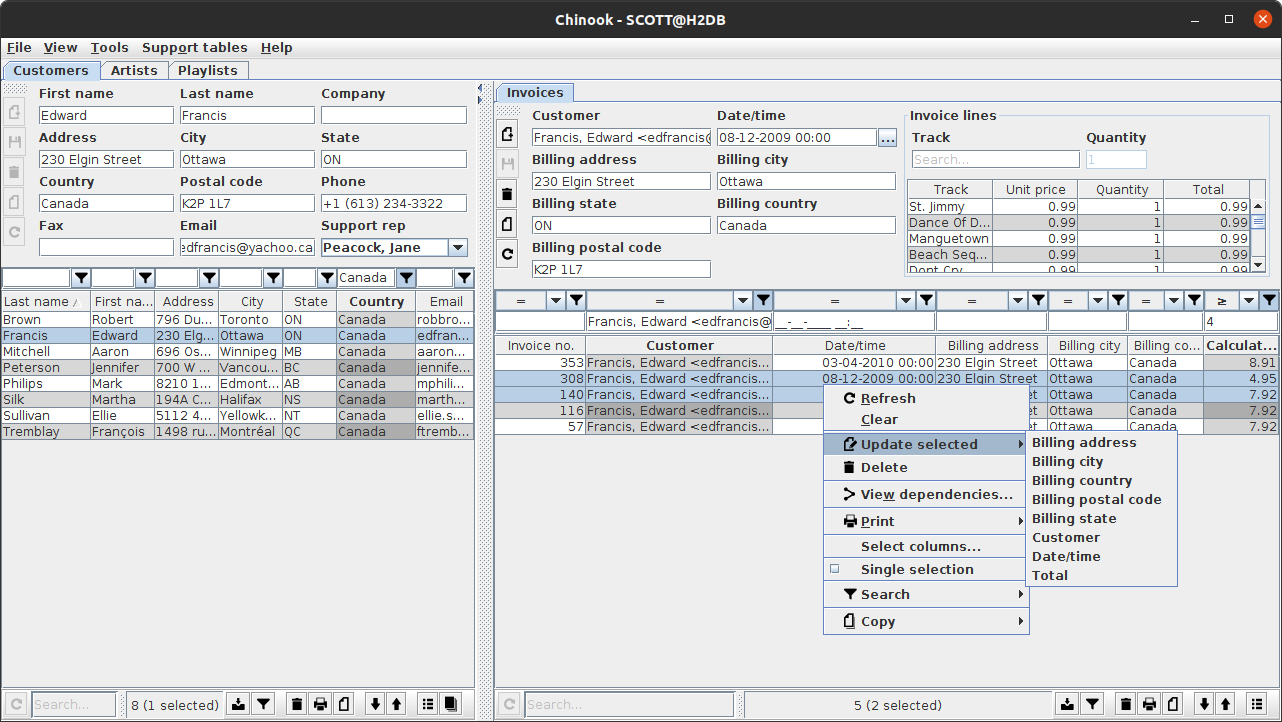
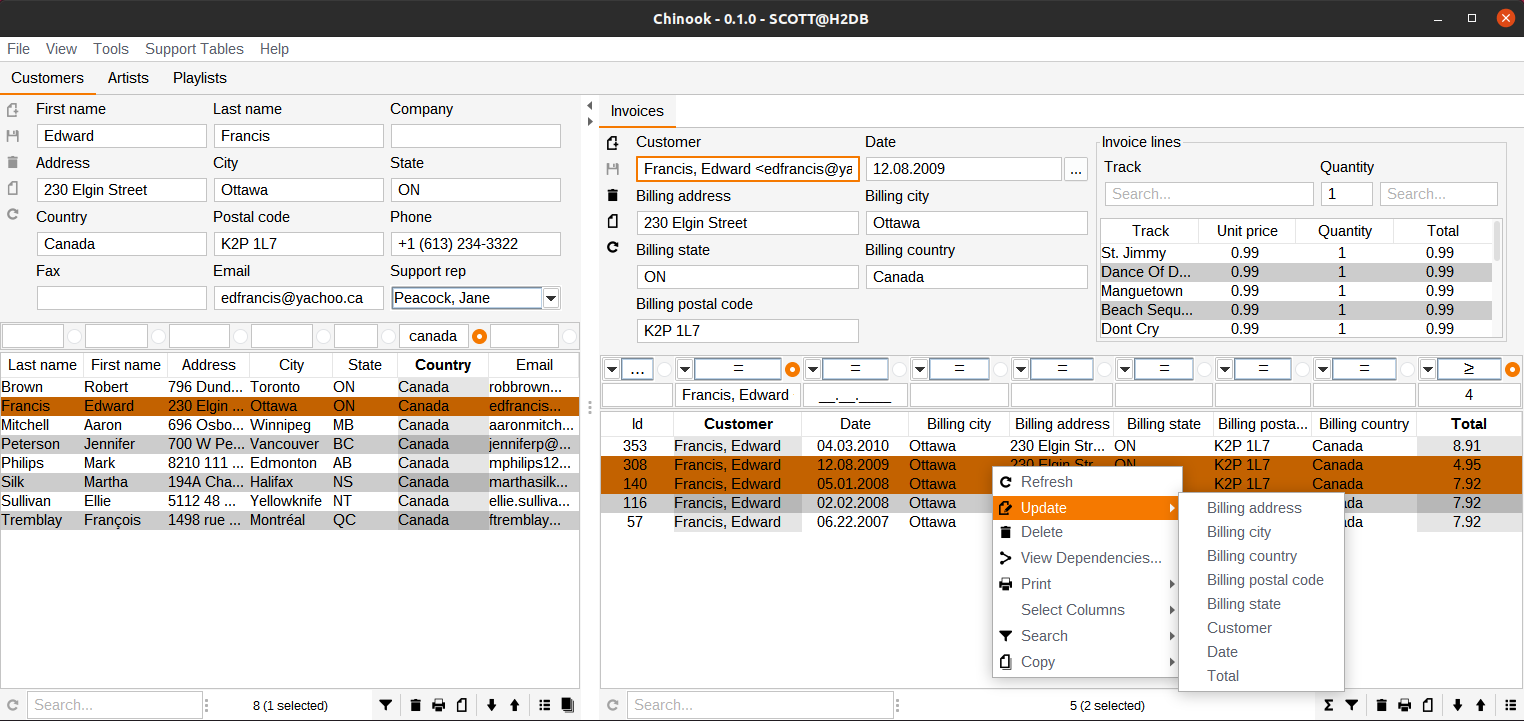
Readme updated with new screenshots

diff --git a/demos/chinook/src/main/java/is/codion/framework/demos/chinook/ui/ChinookAppPanel.java b/demos/chinook/src/main/java/is/codion/framework/demos/chinook/ui/ChinookAppPanel.java
@@ -24,8 +24,7 @@ import is.codion.swing.framework.ui.EntityTableCellRenderer;
 import is.codion.swing.framework.ui.EntityTablePanel;
 import is.codion.swing.framework.ui.ReferentialIntegrityErrorHandling;
 
-import com.formdev.flatlaf.FlatDarkLaf;
-import com.formdev.flatlaf.FlatLightLaf;
+import com.formdev.flatlaf.intellijthemes.FlatAllIJThemes;
 
 import javax.swing.ButtonGroup;
 import javax.swing.JOptionPane;
@@ -152,8 +151,8 @@ public final class ChinookAppPanel extends EntityApplicationPanel<ChinookApplica
     final String language = UserPreferences.getUserPreference(LANGUAGE_PREFERENCES_KEY, Locale.getDefault().getLanguage());
     Locale.setDefault(LANGUAGE_IS.equals(language) ? LOCALE_IS : LOCALE_EN);
     LookAndFeelProvider.CHANGE_DURING_SELECTION.set(true);
-    addLookAndFeelProvider(LookAndFeelProvider.create(FlatLightLaf.class.getName(), FlatLightLaf::setup));
-    addLookAndFeelProvider(LookAndFeelProvider.create(FlatDarkLaf.class.getName(), FlatDarkLaf::setup));
+    Arrays.stream(FlatAllIJThemes.INFOS).forEach(themeInfo ->
+            addLookAndFeelProvider(LookAndFeelProvider.create(themeInfo.getClassName())));
     Completion.COMBO_BOX_COMPLETION_MODE.set(Completion.Mode.AUTOCOMPLETE);
     EntityEditModel.POST_EDIT_EVENTS.set(true);
     EntityApplicationPanel.DISPLAY_ENTITY_PANELS_IN_FRAME.set(true);
@@ -169,7 +168,7 @@ public final class ChinookAppPanel extends EntityApplicationPanel<ChinookApplica
     ColumnConditionModel.CASE_SENSITIVE.set(false);
     EntityConnectionProvider.CLIENT_DOMAIN_CLASS.set("is.codion.framework.demos.chinook.domain.impl.ChinookImpl");
     SwingUtilities.invokeLater(() -> new ChinookAppPanel().starter()
-            .frameSize(new Dimension(1920, 1080))
+            .frameSize(new Dimension(1280, 720))
             .defaultLoginUser(User.parseUser("scott:tiger"))
             .start());
 

diff --git a/demos/manual/src/main/java/is/codion/framework/demos/manual/store/minimal/ui/StoreDemo.java b/demos/manual/src/main/java/is/codion/framework/demos/manual/store/minimal/ui/StoreDemo.java
@@ -15,6 +15,10 @@ import is.codion.swing.framework.model.SwingEntityModel;
 import is.codion.swing.framework.ui.EntityEditPanel;
 import is.codion.swing.framework.ui.EntityPanel;
 
+import com.formdev.flatlaf.FlatDarculaLaf;
+
+import javax.swing.UIManager;
+
 import static is.codion.framework.demos.manual.store.minimal.domain.Store.Address;
 import static is.codion.framework.demos.manual.store.minimal.domain.Store.Customer;
 import static is.codion.swing.common.ui.layout.Layouts.gridLayout;
@@ -35,7 +39,7 @@ public class StoreDemo {
       createTextField(Customer.LAST_NAME);
       createTextField(Customer.EMAIL);
       createCheckBox(Customer.IS_ACTIVE);
-      setLayout(gridLayout(2, 2));
+      setLayout(gridLayout(4, 1));
       addInputPanel(Customer.FIRST_NAME);
       addInputPanel(Customer.LAST_NAME);
       addInputPanel(Customer.EMAIL);
@@ -62,7 +66,9 @@ public class StoreDemo {
     }
   }
 
-  public static void main(String[] args) {
+  public static void main(String[] args) throws Exception {
+    UIManager.setLookAndFeel(new FlatDarculaLaf());
+
     Database database = new H2DatabaseFactory()
             .createDatabase("jdbc:h2:mem:h2db",
                     "src/main/sql/create_schema_minimal.sql");
@@ -86,9 +92,9 @@ public class StoreDemo {
                     new AddressEditPanel(addressModel.getEditModel()));
     customerPanel.addDetailPanel(addressPanel);
 
-    customerPanel.getTablePanel().setConditionPanelVisible(true);
     customerPanel.getTablePanel().getTable().setAutoResizeMode(AUTO_RESIZE_ALL_COLUMNS);
     addressPanel.getTablePanel().getTable().setAutoResizeMode(AUTO_RESIZE_ALL_COLUMNS);
+    addressPanel.getTablePanel().setConditionPanelVisible(true);
 
     customerModel.refresh();
     customerPanel.initializePanel();

diff --git a/demos/manual/src/main/java/is/codion/framework/demos/manual/store/minimal/domain/Store.java b/demos/manual/src/main/java/is/codion/framework/demos/manual/store/minimal/domain/Store.java
@@ -36,8 +36,7 @@ public class Store extends DefaultDomain {
     Attribute<String> STREET = TYPE.stringAttribute("street");
     Attribute<String> CITY = TYPE.stringAttribute("city");
 
-    ForeignKey CUSTOMER_FK = TYPE.foreignKey("customer_fk",
-            Address.CUSTOMER_ID, Customer.ID);
+    ForeignKey CUSTOMER_FK = TYPE.foreignKey("customer_fk", CUSTOMER_ID, Customer.ID);
   }
 
   public Store() {
@@ -52,6 +51,7 @@ public class Store extends DefaultDomain {
             columnProperty(Customer.EMAIL, "Email")
                     .maximumLength(100),
             columnProperty(Customer.IS_ACTIVE, "Is active")
+                    .nullable(false)
                     .defaultValue(true))
             .keyGenerator(identity())
             .stringFactory(stringFactory(Customer.LAST_NAME)
@@ -64,9 +64,11 @@ public class Store extends DefaultDomain {
                     .nullable(false),
             foreignKeyProperty(Address.CUSTOMER_FK, "Customer"),
             columnProperty(Address.STREET, "Street")
-                    .nullable(false).maximumLength(100),
+                    .nullable(false)
+                    .maximumLength(100),
             columnProperty(Address.CITY, "City")
-                    .nullable(false).maximumLength(50))
+                    .nullable(false)
+                    .maximumLength(50))
             .keyGenerator(identity())
             .stringFactory(stringFactory(Address.STREET)
                     .text(", ").value(Address.CITY))

diff --git a/demos/chinook/src/main/java/is/codion/framework/demos/chinook/tutorial/ClientTutorial.java b/demos/chinook/src/main/java/is/codion/framework/demos/chinook/tutorial/ClientTutorial.java
@@ -57,10 +57,10 @@ public final class ClientTutorial {
       EntityType TYPE = DOMAIN.entityType("chinook.album");
 
       Attribute<Integer> ID = TYPE.integerAttribute("albumid");
-      Attribute<String> TITLE = Artist.TYPE.stringAttribute("title");
-      Attribute<Integer> ARTIST_ID = Artist.TYPE.integerAttribute("artistid");
+      Attribute<String> TITLE = TYPE.stringAttribute("title");
+      Attribute<Integer> ARTIST_ID = TYPE.integerAttribute("artistid");
 
-      ForeignKey ARTIST_FK = Artist.TYPE.foreignKey("artist_fk", ARTIST_ID, Artist.ID);
+      ForeignKey ARTIST_FK = TYPE.foreignKey("artist_fk", ARTIST_ID, Artist.ID);
     }
 
     public Chinook() {
